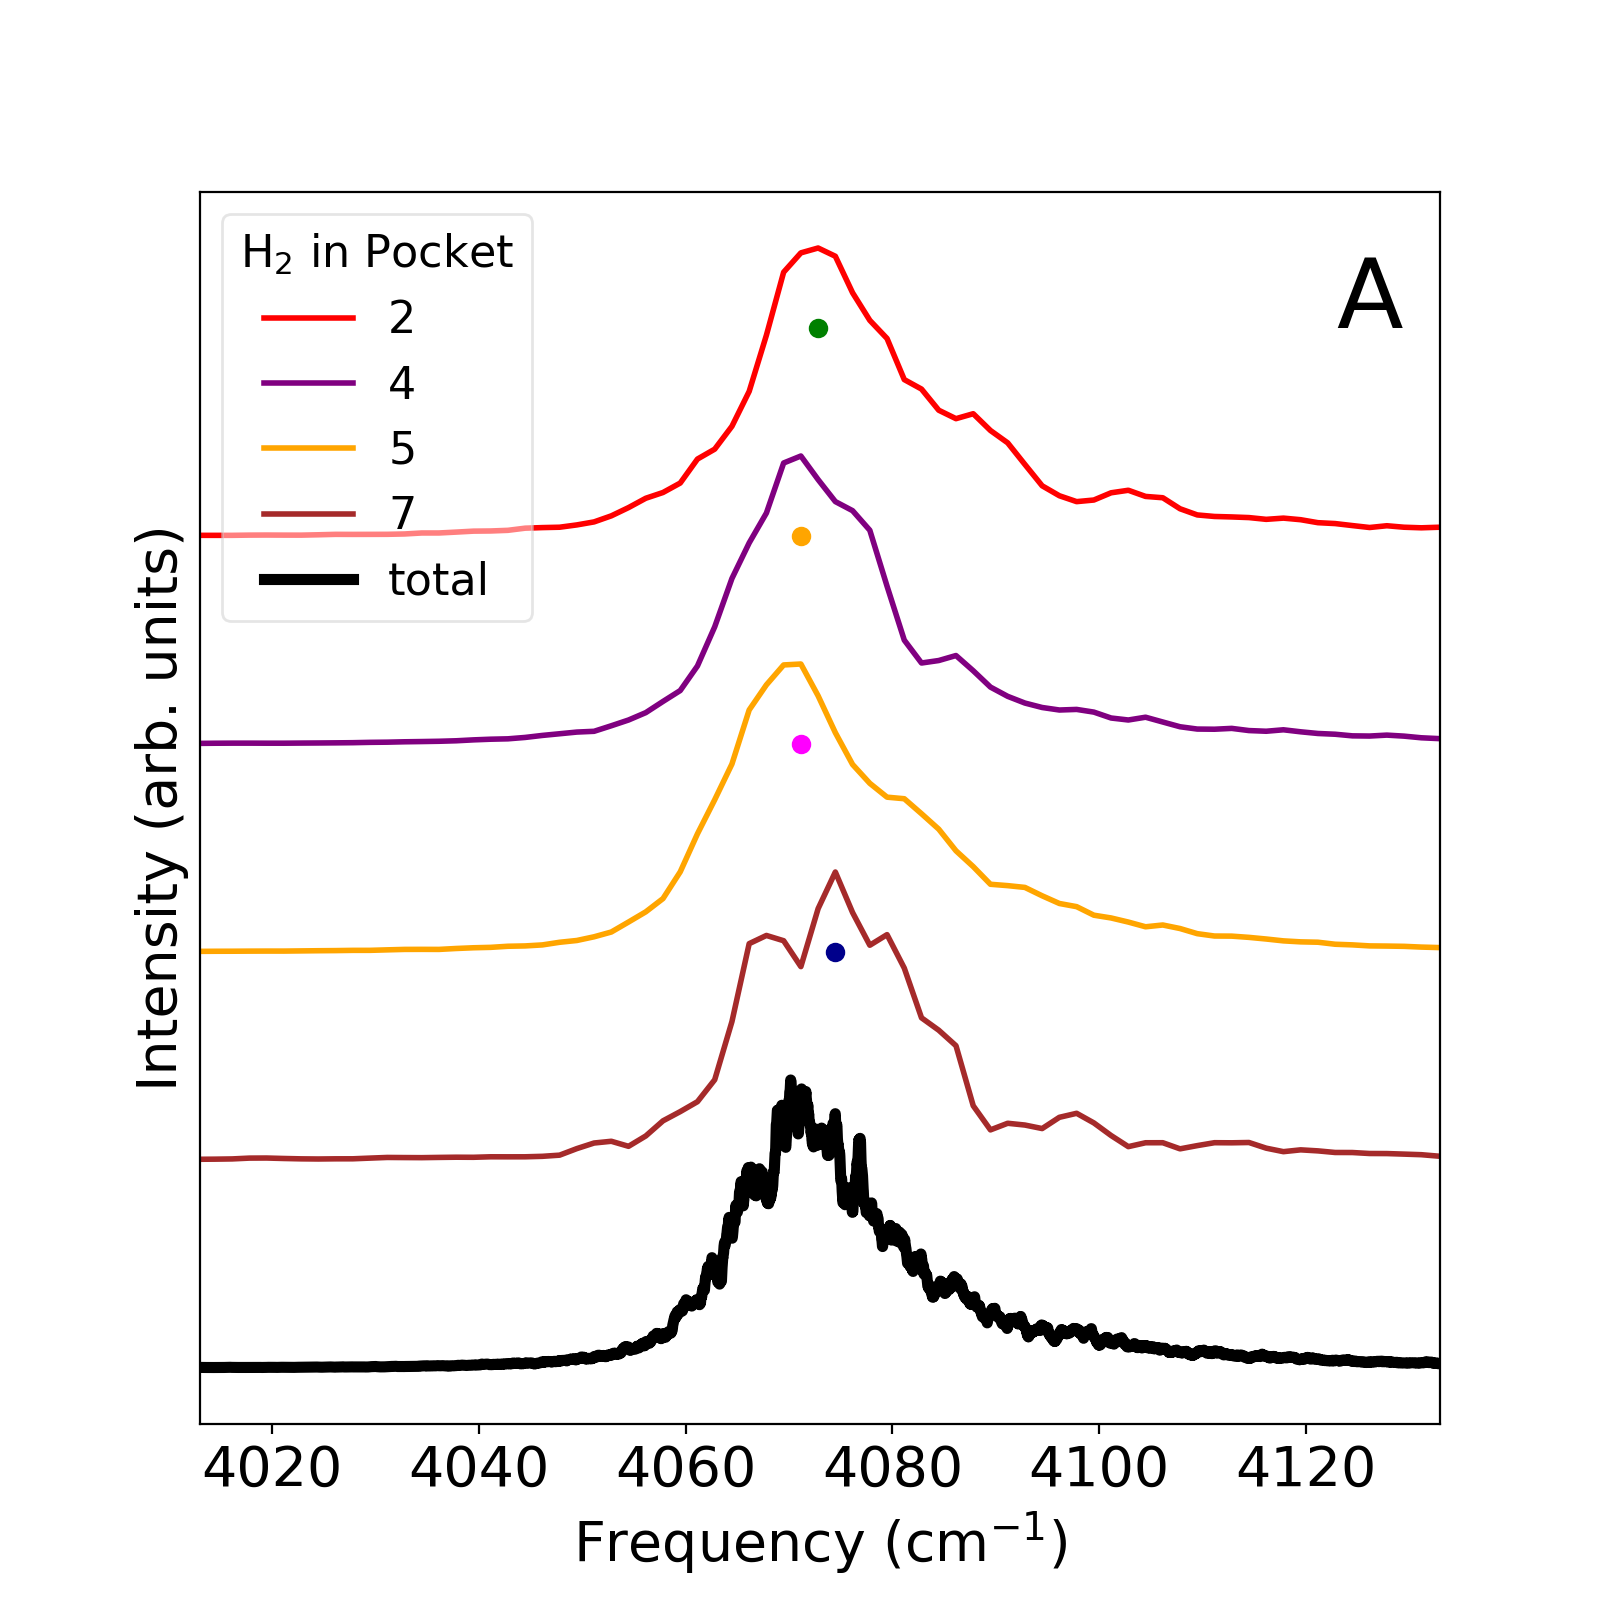
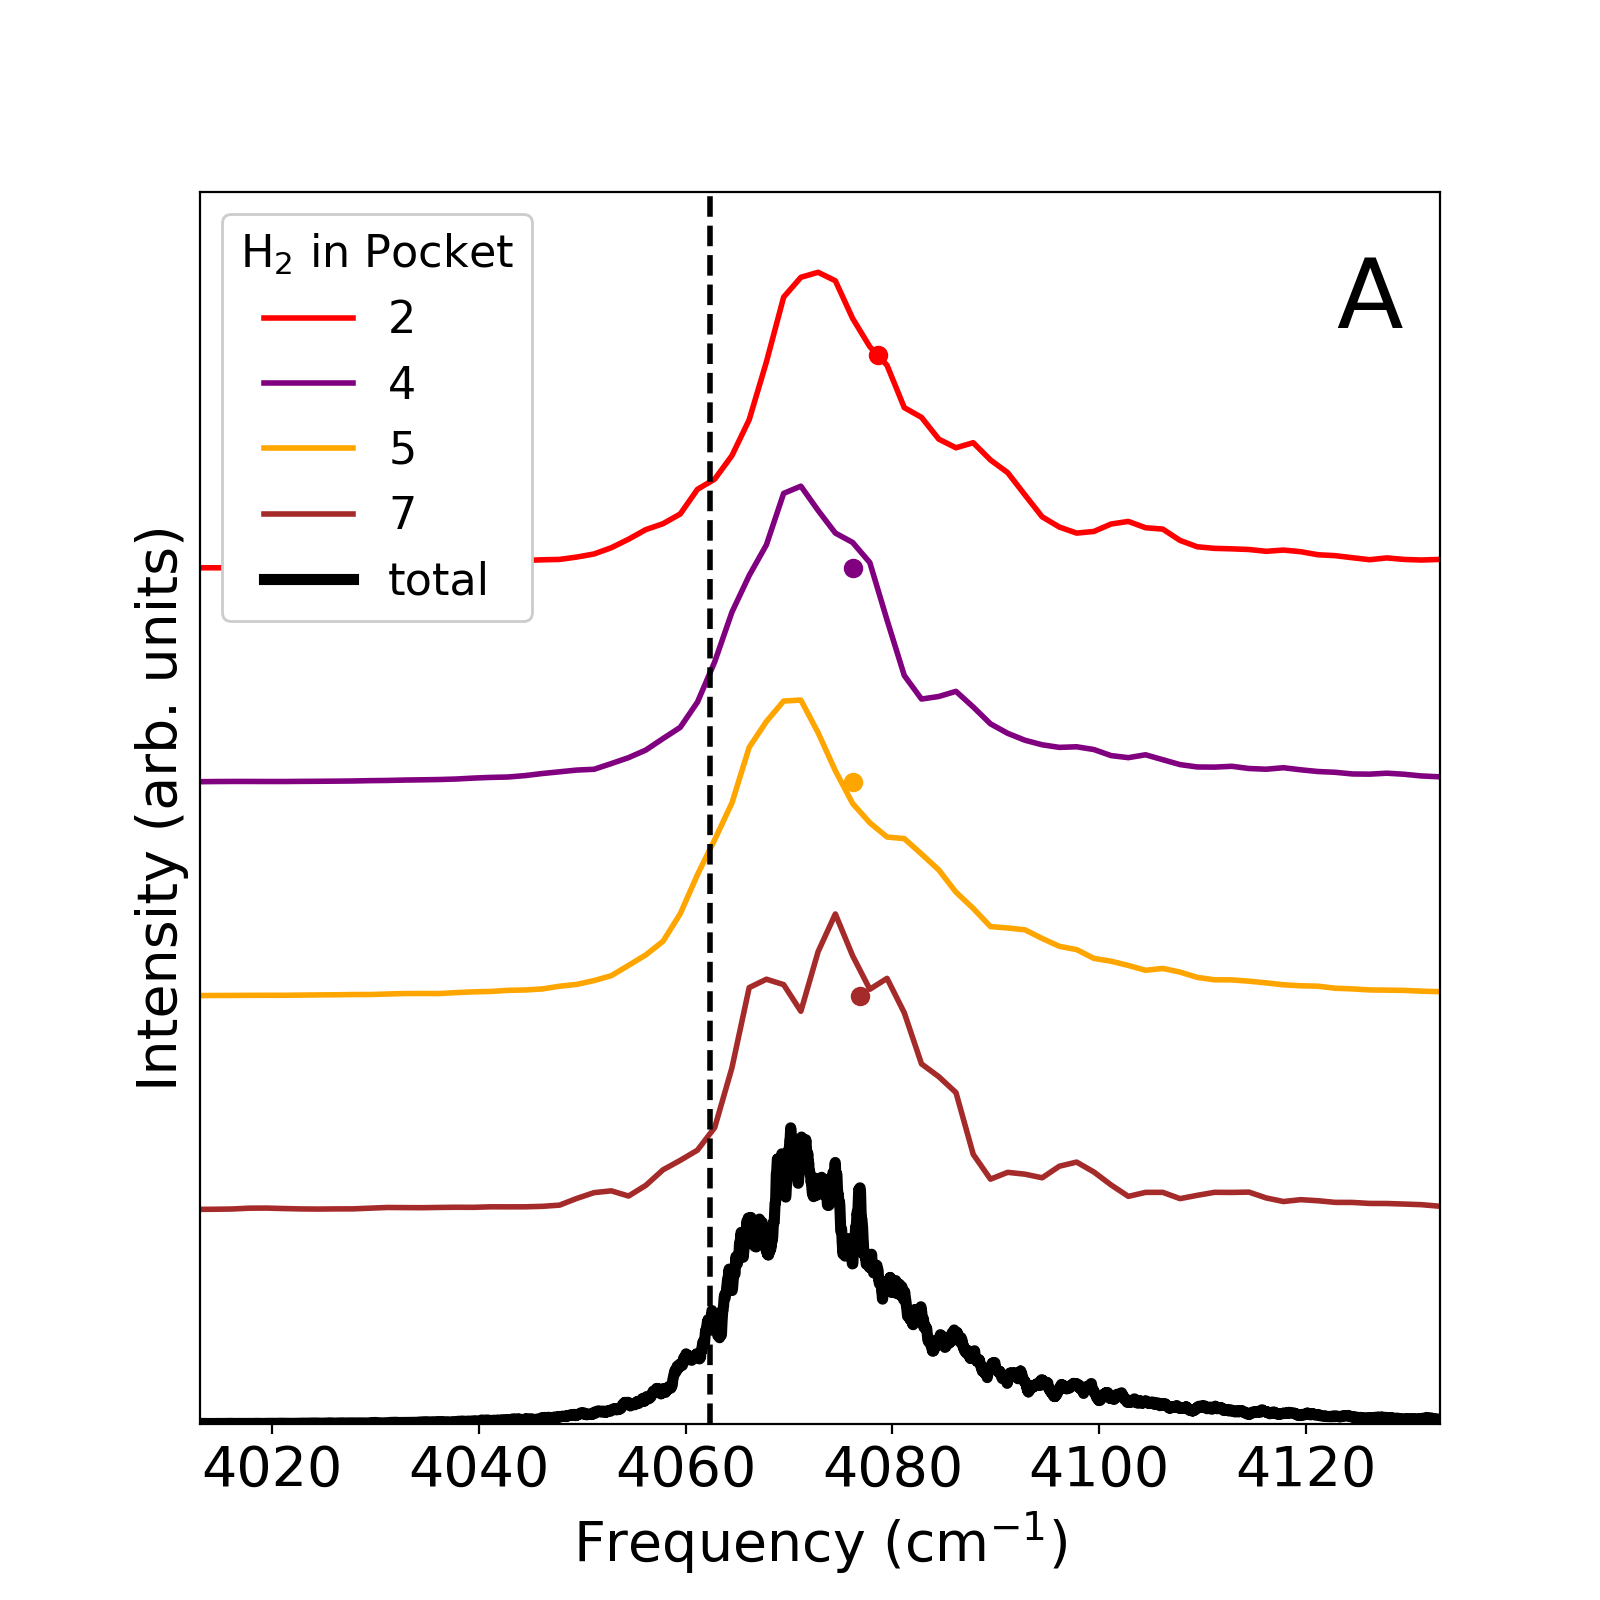
rebacked some pictures

diff --git a/pocketsSuchen/PictureGenScriptForMorse.py b/pocketsSuchen/PictureGenScriptForMorse.py
@@ -1,5 +1,6 @@
 import numpy as np
 import matplotlib.pyplot as plt
+from matplotlib.offsetbox import AnchoredOffsetbox, TextArea
 
 distfile = "pocket_arrays/" + 'pocket_arrays_V13.H2_1.DCD_files.1-25.npz'
 
@@ -52,33 +53,48 @@ plt.rc('figure', titlesize=MEDIUM_SIZE)  # fontsize of the figure title
 # plot in which pocket the H2 is
 # plt.plot(x, pocket_arr, linewidth=2.0, label='pocket state')
 fig = plt.figure(figsize=(16, 9))
-
-
-
+ax = fig.add_subplot(1, 1, 1)
 x = x/1000
 
-plt.plot(x[::nplot], pocket_arr[::nplot], linewidth=2.0)
-plt.ylabel("Pocket index")
+
+# plt.plot(x[::nplot], pocket_arr[::nplot], linewidth=2.0)
+# plt.ylabel("Pocket index")
+# tbox = TextArea(
+#     'B',
+#     textprops=dict(
+#         color='k', fontsize=40, ha='center', va='center')
+#     )
 
 
 # plot all distances to H2 for debugging
-# plt.plot(x[::nplot], pocket_XE1_dist_arr[::nplot], linewidth=1.0, label='dist to XE1')
-# plt.plot(x[::nplot], pocket_XE2_dist_arr[::nplot], linewidth=1.0, label='dist to XE2')
-# plt.plot(x[::nplot], pocket_XE3_dist_arr[::nplot], linewidth=1.0, label='dist to XE3')
-# plt.plot(x[::nplot], pocket_XE4_dist_arr[::nplot], linewidth=1.0, label='dist to XE4')
-# plt.plot(x[::nplot], pocket_XE5_dist_arr[::nplot], linewidth=1.0, label='dist to XE5')
-# plt.plot(x[::nplot], pocket_XE6_dist_arr[::nplot], color='black', linewidth=2.0, label='dist to XE6')
-# plt.plot(x[::nplot], pocket_XE7_dist_arr[::nplot], color='gray', linewidth=1.0, label='dist to XE7')
-# plt.plot(x[::nplot], pocket_XE8_dist_arr[::nplot], color='gold', linewidth=1.0, label='dist to XE8')
-# plt.plot(x[::nplot], pocket_XE9_dist_arr[::nplot], color='yellow', linewidth=1.0, label='dist to XE9')
-# plt.xlim(0,600)
-# plt.legend(fancybox=True, loc='upper right', title='Distance H$_2$\nto Pocket', framealpha=1)
-# plt.ylabel("Distance ($\mathrm{\AA}$)")
+plt.plot(x[::nplot], pocket_XE1_dist_arr[::nplot], linewidth=1.0, label='dist to XE1')
+plt.plot(x[::nplot], pocket_XE2_dist_arr[::nplot], linewidth=1.0, label='dist to XE2')
+plt.plot(x[::nplot], pocket_XE3_dist_arr[::nplot], linewidth=1.0, label='dist to XE3')
+plt.plot(x[::nplot], pocket_XE4_dist_arr[::nplot], linewidth=1.0, label='dist to XE4')
+plt.plot(x[::nplot], pocket_XE5_dist_arr[::nplot], linewidth=1.0, label='dist to XE5')
+plt.plot(x[::nplot], pocket_XE6_dist_arr[::nplot], color='black', linewidth=2.0, label='dist to XE6')
+plt.plot(x[::nplot], pocket_XE7_dist_arr[::nplot], color='gray', linewidth=1.0, label='dist to XE7')
+plt.plot(x[::nplot], pocket_XE8_dist_arr[::nplot], color='gold', linewidth=1.0, label='dist to XE8')
+plt.plot(x[::nplot], pocket_XE9_dist_arr[::nplot], color='yellow', linewidth=1.0, label='dist to XE9')
+plt.xlim(0,600)
+plt.legend(fancybox=True, loc='upper right', title='Distance H$_2$\nto Pocket', framealpha=1)
+plt.ylabel("Distance ($\mathrm{\AA}$)")
+tbox = TextArea(
+    'D',
+    textprops=dict(
+        color='k', fontsize=40, ha='center', va='center')
+    )
 
+
+
+anchored_tbox = AnchoredOffsetbox(
+    loc="upper right", child=tbox, pad=0., frameon=False,
+    bbox_to_anchor=(0.05, 0.97),
+    bbox_transform=ax.transAxes, borderpad=0.)
+ax.add_artist(anchored_tbox)
 
 plt.xlabel("Time (ps)")
-
-
+plt.xlim(0, 600)
 
 plt.savefig(dpi=400, fname="CGenFF", )
 plt.show()

diff --git a/PowerSpectraV2/PocketSpecificPowerspectraReaderV2.py b/PowerSpectraV2/PocketSpecificPowerspectraReaderV2.py
@@ -27,13 +27,6 @@ def get_paths(prefix, suffix, num_h):
 #plot consts
 #
 
-# Morse MDCM
-# x_lim_min = 4407.
-# x_lim_max = 4527.
-
-# CGenFF
-x_lim_min = 4013.
-x_lim_max = 4133.
 
 normconst = 1.3
 
@@ -333,18 +326,7 @@ np.savez("spec_avg_save", spec_avg=np_spec_avg, freq=freq[0])
 ampl_avg = np.max(total_spec[freq2 > 3500.])
 plt.plot(freq2, total_spec / (ampl_avg * normconst), 'k', label=str("total"), linewidth=4.0)
 
-tbox = TextArea(
-    'A',
-    textprops=dict(
-        color='k', fontsize=35, ha='center', va='center')
-)
-anchored_tbox = AnchoredOffsetbox(
-    loc="upper right", child=tbox, pad=0., frameon=False,
-    bbox_to_anchor=(0.97, 0.97),
-    bbox_transform=axs.transAxes, borderpad=0.)
-axs.add_artist(anchored_tbox)
 
-plt.xlim(x_lim_min, x_lim_max)
 
 # plt.title("Powerspectra Average", fontsize=25)
 
@@ -355,25 +337,52 @@ if load_from[0] == "MDCMmorse":
     pos = loader["pos"]
     cnt = 0
     for tup in pos:
-        pocket_i = pockets_to_display[cnt]
+        pocket_i = pockets_to_display[cnt] - 1
         cnt += 1
-        print(tup)
-        plt.scatter(tup[0], 5 / 1.8 - (cnt-1) / 1.8, color=color_scheme[pocket_i], marker="o")
-        # plt.scatter(tup[1], 5 / 1.8 - (cnt-1) / 1.8,color=color_scheme[pocket_i], marker="o", alpha=0.6)
+        # max
+        # plt.scatter(tup[0], 5 / 1.8 - (cnt-1) / 1.8, color=color_scheme[pocket_i], marker="o")
+        # meam
+        plt.scatter(tup[1], 5 / 1.8 - (cnt-1) / 1.8,color=color_scheme[pocket_i], marker="o")
+    plt.vlines(x=4465.4, ymin=0, ymax=36, colors='black', linestyles='--', lw=2)
+    x_lim_min = 4407.
+    x_lim_max = 4527.
+    tbox = TextArea(
+        'B',
+        textprops=dict(
+            color='k', fontsize=35, ha='center', va='center')
+    )
 
 if load_from[0] == "noMDCM":
     loader = np.load("middle_NoMDCM.npz")
     pos = loader["pos"]
     cnt = 0
     for tup in pos:
-        pocket_i = pockets_to_display[cnt]
+        pocket_i = pockets_to_display[cnt] - 1
         cnt += 1
-        print(tup)
-        plt.scatter(tup[0], 5 / 1.8 - (cnt-1) / 1.8,color=color_scheme[pocket_i], marker="o")
-        # plt.scatter(tup[1], 5 / 1.8 - (cnt-1) / 1.8,color=color_scheme[pocket_i], marker="o", alpha=0.6)
+        # max
+        # plt.scatter(tup[0], 5 / 1.8 - (cnt-1) / 1.8,color=color_scheme[pocket_i], marker="o")
+        # mean
+        plt.scatter(tup[1], 5 / 1.8 - (cnt-1) / 1.8, color=color_scheme[pocket_i], marker="o")
+
+    plt.vlines(x=4062.4, ymin=0, ymax=36, colors='black', linestyles='--', lw=2)
+    # CGenFF
+    x_lim_min = 4013.
+    x_lim_max = 4133.
+    tbox = TextArea(
+        'A',
+        textprops=dict(
+            color='k', fontsize=35, ha='center', va='center')
+    )
+
+plt.ylim(0, 3.2)
+plt.xlim(x_lim_min, x_lim_max)
 
 
-
+anchored_tbox = AnchoredOffsetbox(
+    loc="upper right", child=tbox, pad=0., frameon=False,
+    bbox_to_anchor=(0.97, 0.97),
+    bbox_transform=axs.transAxes, borderpad=0.)
+axs.add_artist(anchored_tbox)
 plt.xlabel("Frequency (cm$^{-1}$)")
 plt.ylabel("Intensity (arb. units)")
 

diff --git a/pocketsSuchen/PictureGenScriptForNOMDCM.py b/pocketsSuchen/PictureGenScriptForNOMDCM.py
@@ -1,5 +1,6 @@
 import numpy as np
 import matplotlib.pyplot as plt
+from matplotlib.offsetbox import AnchoredOffsetbox, TextArea
 
 distfile = 'pocket_arrays.npz'
 
@@ -39,29 +40,54 @@ plt.rc('ytick', labelsize=MEDIUM_SIZE)  # fontsize of the tick labels
 plt.rc('legend', fontsize=SMALL_SIZE)  # legend fontsize
 plt.rc('figure', titlesize=MEDIUM_SIZE)  # fontsize of the figure title
 
+
 # plot in which pocket the H2 is
 # plt.plot(x, pocket_arr, linewidth=2.0, label='pocket state')
 fig = plt.figure(figsize=(16, 9))
+ax = fig.add_subplot(1, 1, 1)
 x = x/10
 
-plt.plot(x, pocket_arr, linewidth=2.0)
-plt.ylabel("Pocket index")
+
+
+
+
+# plt.plot(x, pocket_arr, linewidth=2.0)
+# plt.ylabel("Pocket index")
+# tbox = TextArea(
+#     'A',
+#     textprops=dict(
+#         color='k', fontsize=40, ha='center', va='center')
+#     )
+
 
 # plot all distances to H2 for debugging
-# plt.plot(x, pocket_XE1_dist_arr, linewidth=1.0, label=' 1')
-# plt.plot(x, pocket_XE2_dist_arr, linewidth=1.0, label=' 2')
-# plt.plot(x, pocket_XE3_dist_arr, linewidth=1.0, label=' 3')
-# plt.plot(x, pocket_XE4_dist_arr, linewidth=1.0, label=' 4')
-# plt.plot(x, pocket_XE5_dist_arr, linewidth=1.0, label=' 5')
-# plt.plot(x, pocket_XE6_dist_arr, color='black', linewidth=2.0, label=' 6')
-# plt.plot(x, pocket_XE7_dist_arr, color='gray', linewidth=1.0, label=' 7')
-# plt.plot(x, pocket_XE8_dist_arr, color='gold', linewidth=1.0, label=' 8')
-# plt.plot(x, pocket_XE9_dist_arr, color='yellow', linewidth=1.0, label=' 9')
-# plt.ylabel("Distance ($\mathrm{\AA}$)")
-# plt.legend(fancybox=True, loc='upper right', title='Distance H$_2$\nto Pocket', framealpha=1)
+plt.plot(x, pocket_XE1_dist_arr, linewidth=1.0, label=' 1')
+plt.plot(x, pocket_XE2_dist_arr, linewidth=1.0, label=' 2')
+plt.plot(x, pocket_XE3_dist_arr, linewidth=1.0, label=' 3')
+plt.plot(x, pocket_XE4_dist_arr, linewidth=1.0, label=' 4')
+plt.plot(x, pocket_XE5_dist_arr, linewidth=1.0, label=' 5')
+plt.plot(x, pocket_XE6_dist_arr, color='black', linewidth=2.0, label=' 6')
+plt.plot(x, pocket_XE7_dist_arr, color='gray', linewidth=1.0, label=' 7')
+plt.plot(x, pocket_XE8_dist_arr, color='gold', linewidth=1.0, label=' 8')
+plt.plot(x, pocket_XE9_dist_arr, color='yellow', linewidth=1.0, label=' 9')
+plt.ylabel("Distance ($\mathrm{\AA}$)")
+plt.legend(fancybox=True, loc='upper left', title='Distance H$_2$\nto Pocket', framealpha=1)
+tbox = TextArea(
+    'C',
+    textprops=dict(
+        color='k', fontsize=40, ha='center', va='center')
+    )
 
 
-plt.xlim(0,1000)
+
+anchored_tbox = AnchoredOffsetbox(
+    loc="upper right", child=tbox, pad=0., frameon=False,
+    bbox_to_anchor=(0.97, 0.97),
+    bbox_transform=ax.transAxes, borderpad=0.)
+ax.add_artist(anchored_tbox)
+
+
+plt.xlim(0, 600)
 plt.xlabel("Time (ps)")
 
 plt.savefig(dpi=400, fname="CGenFF", )
